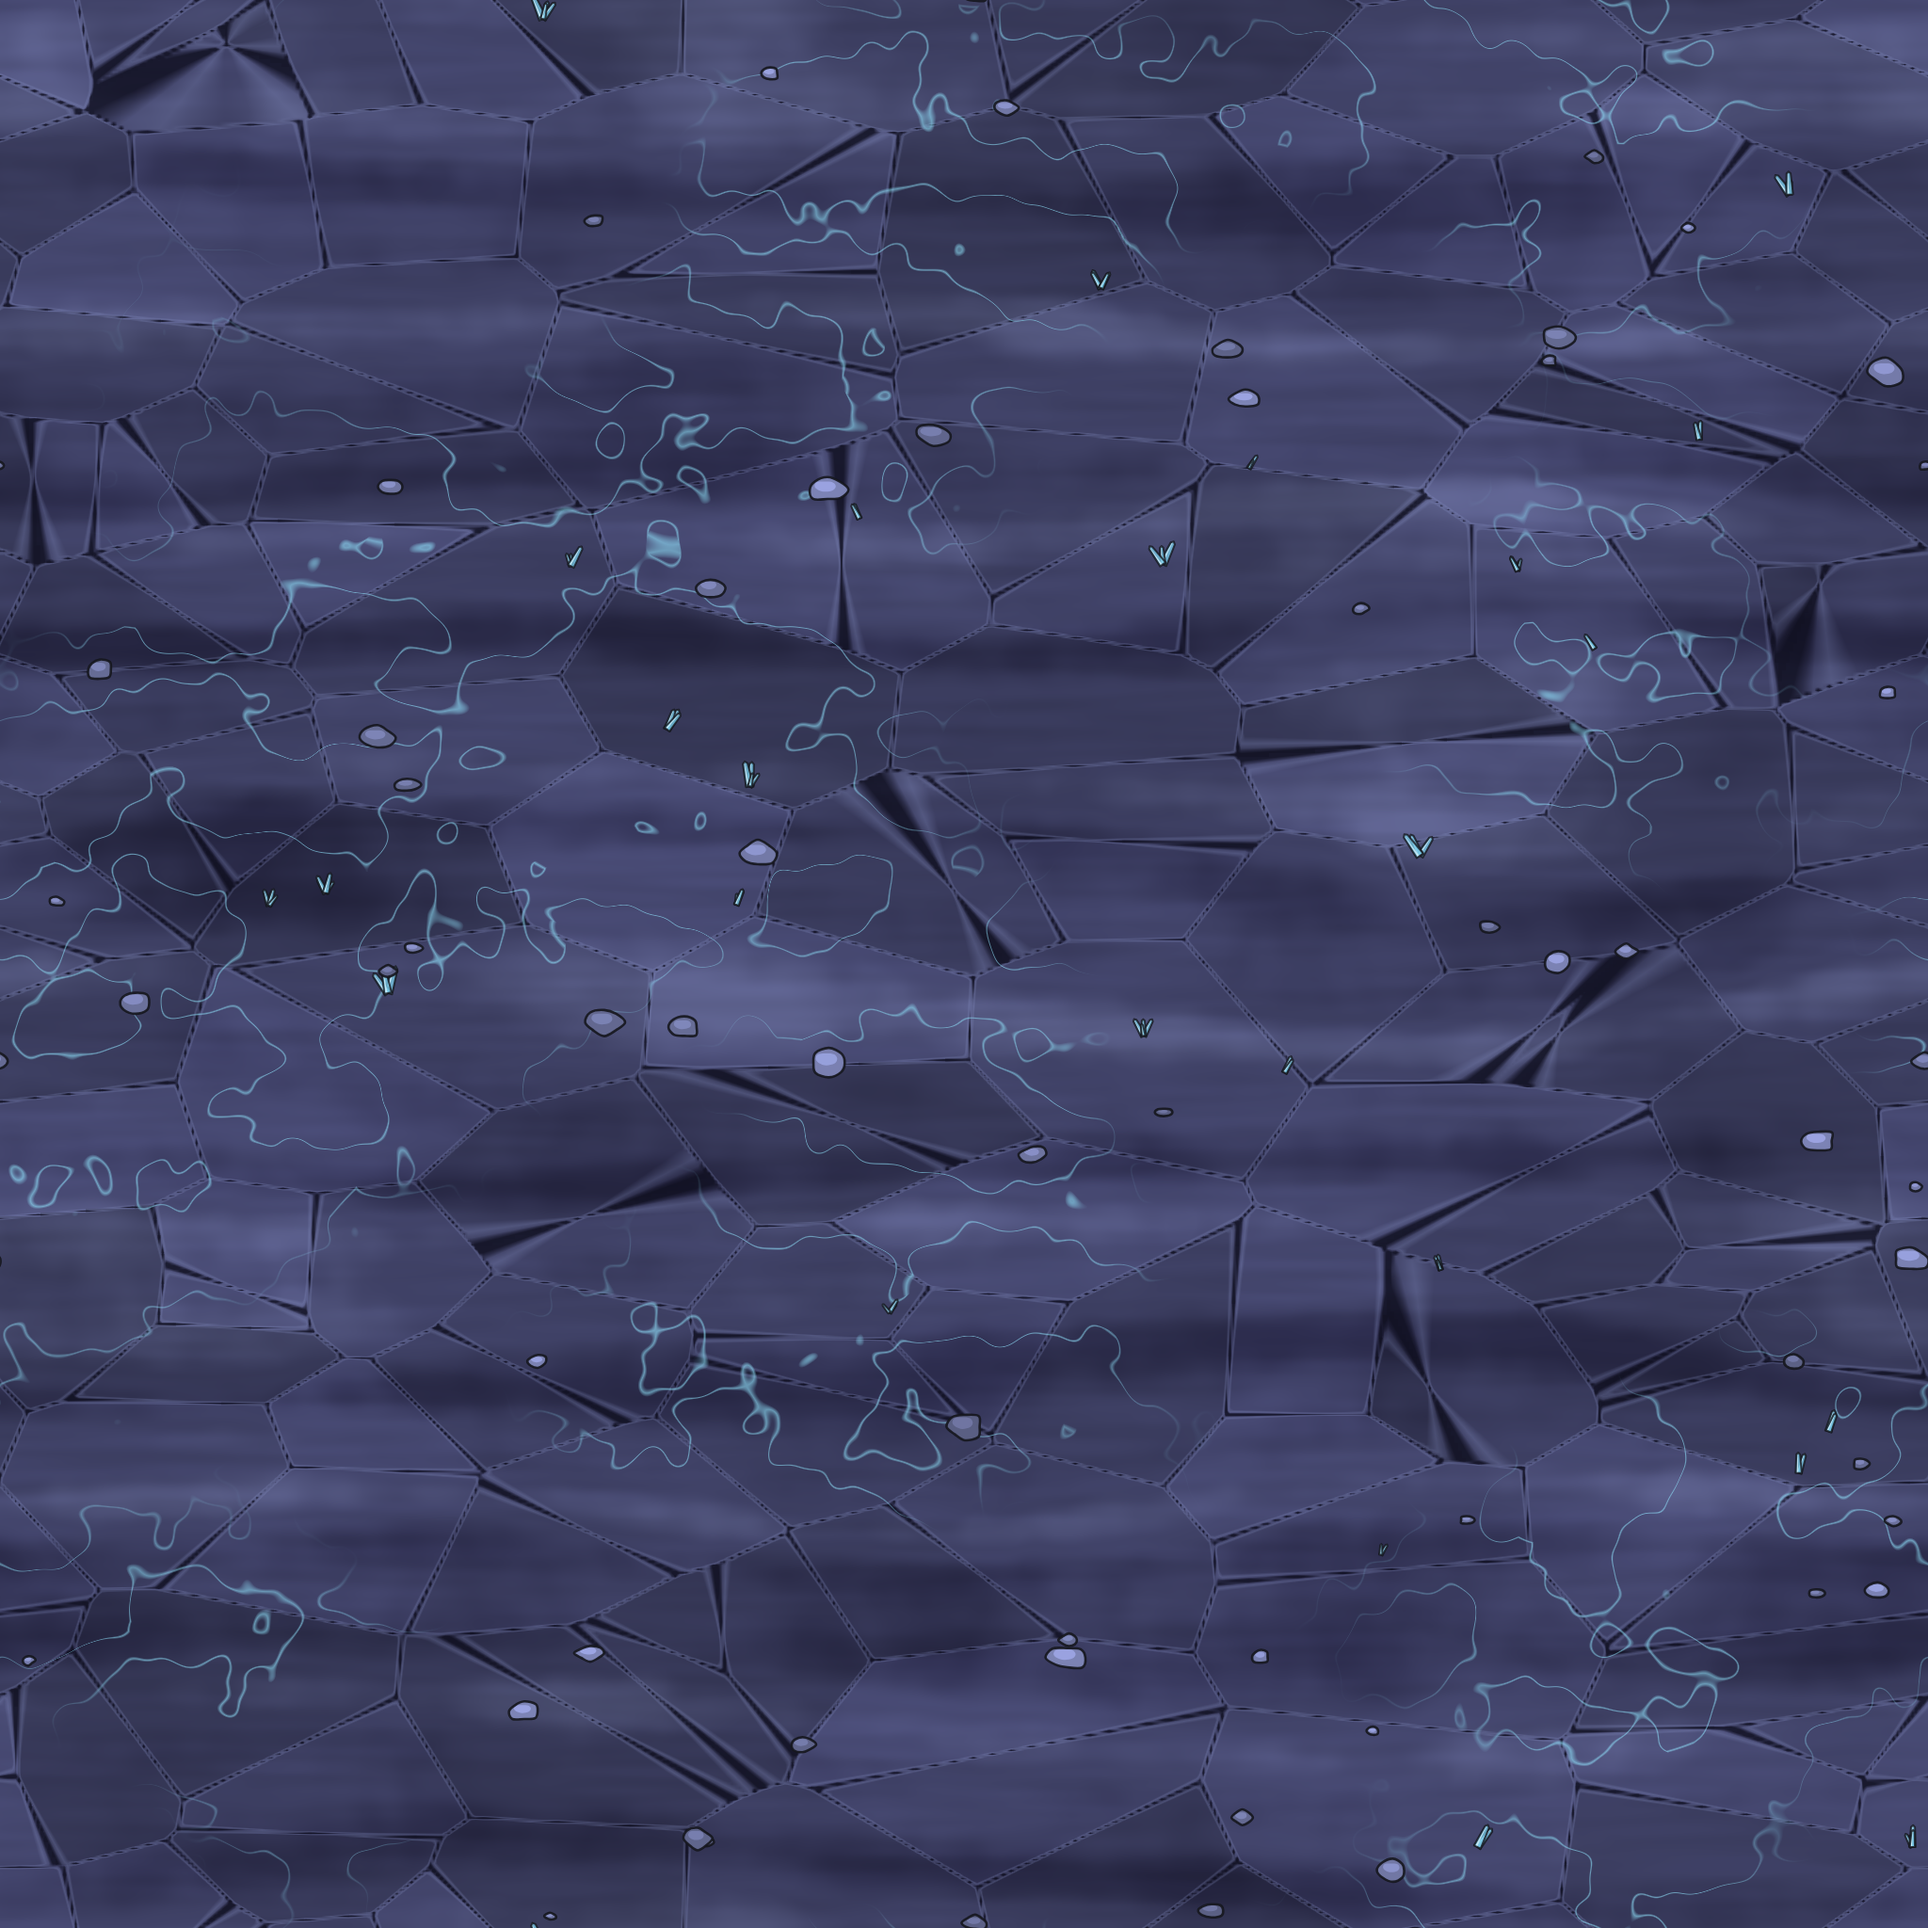
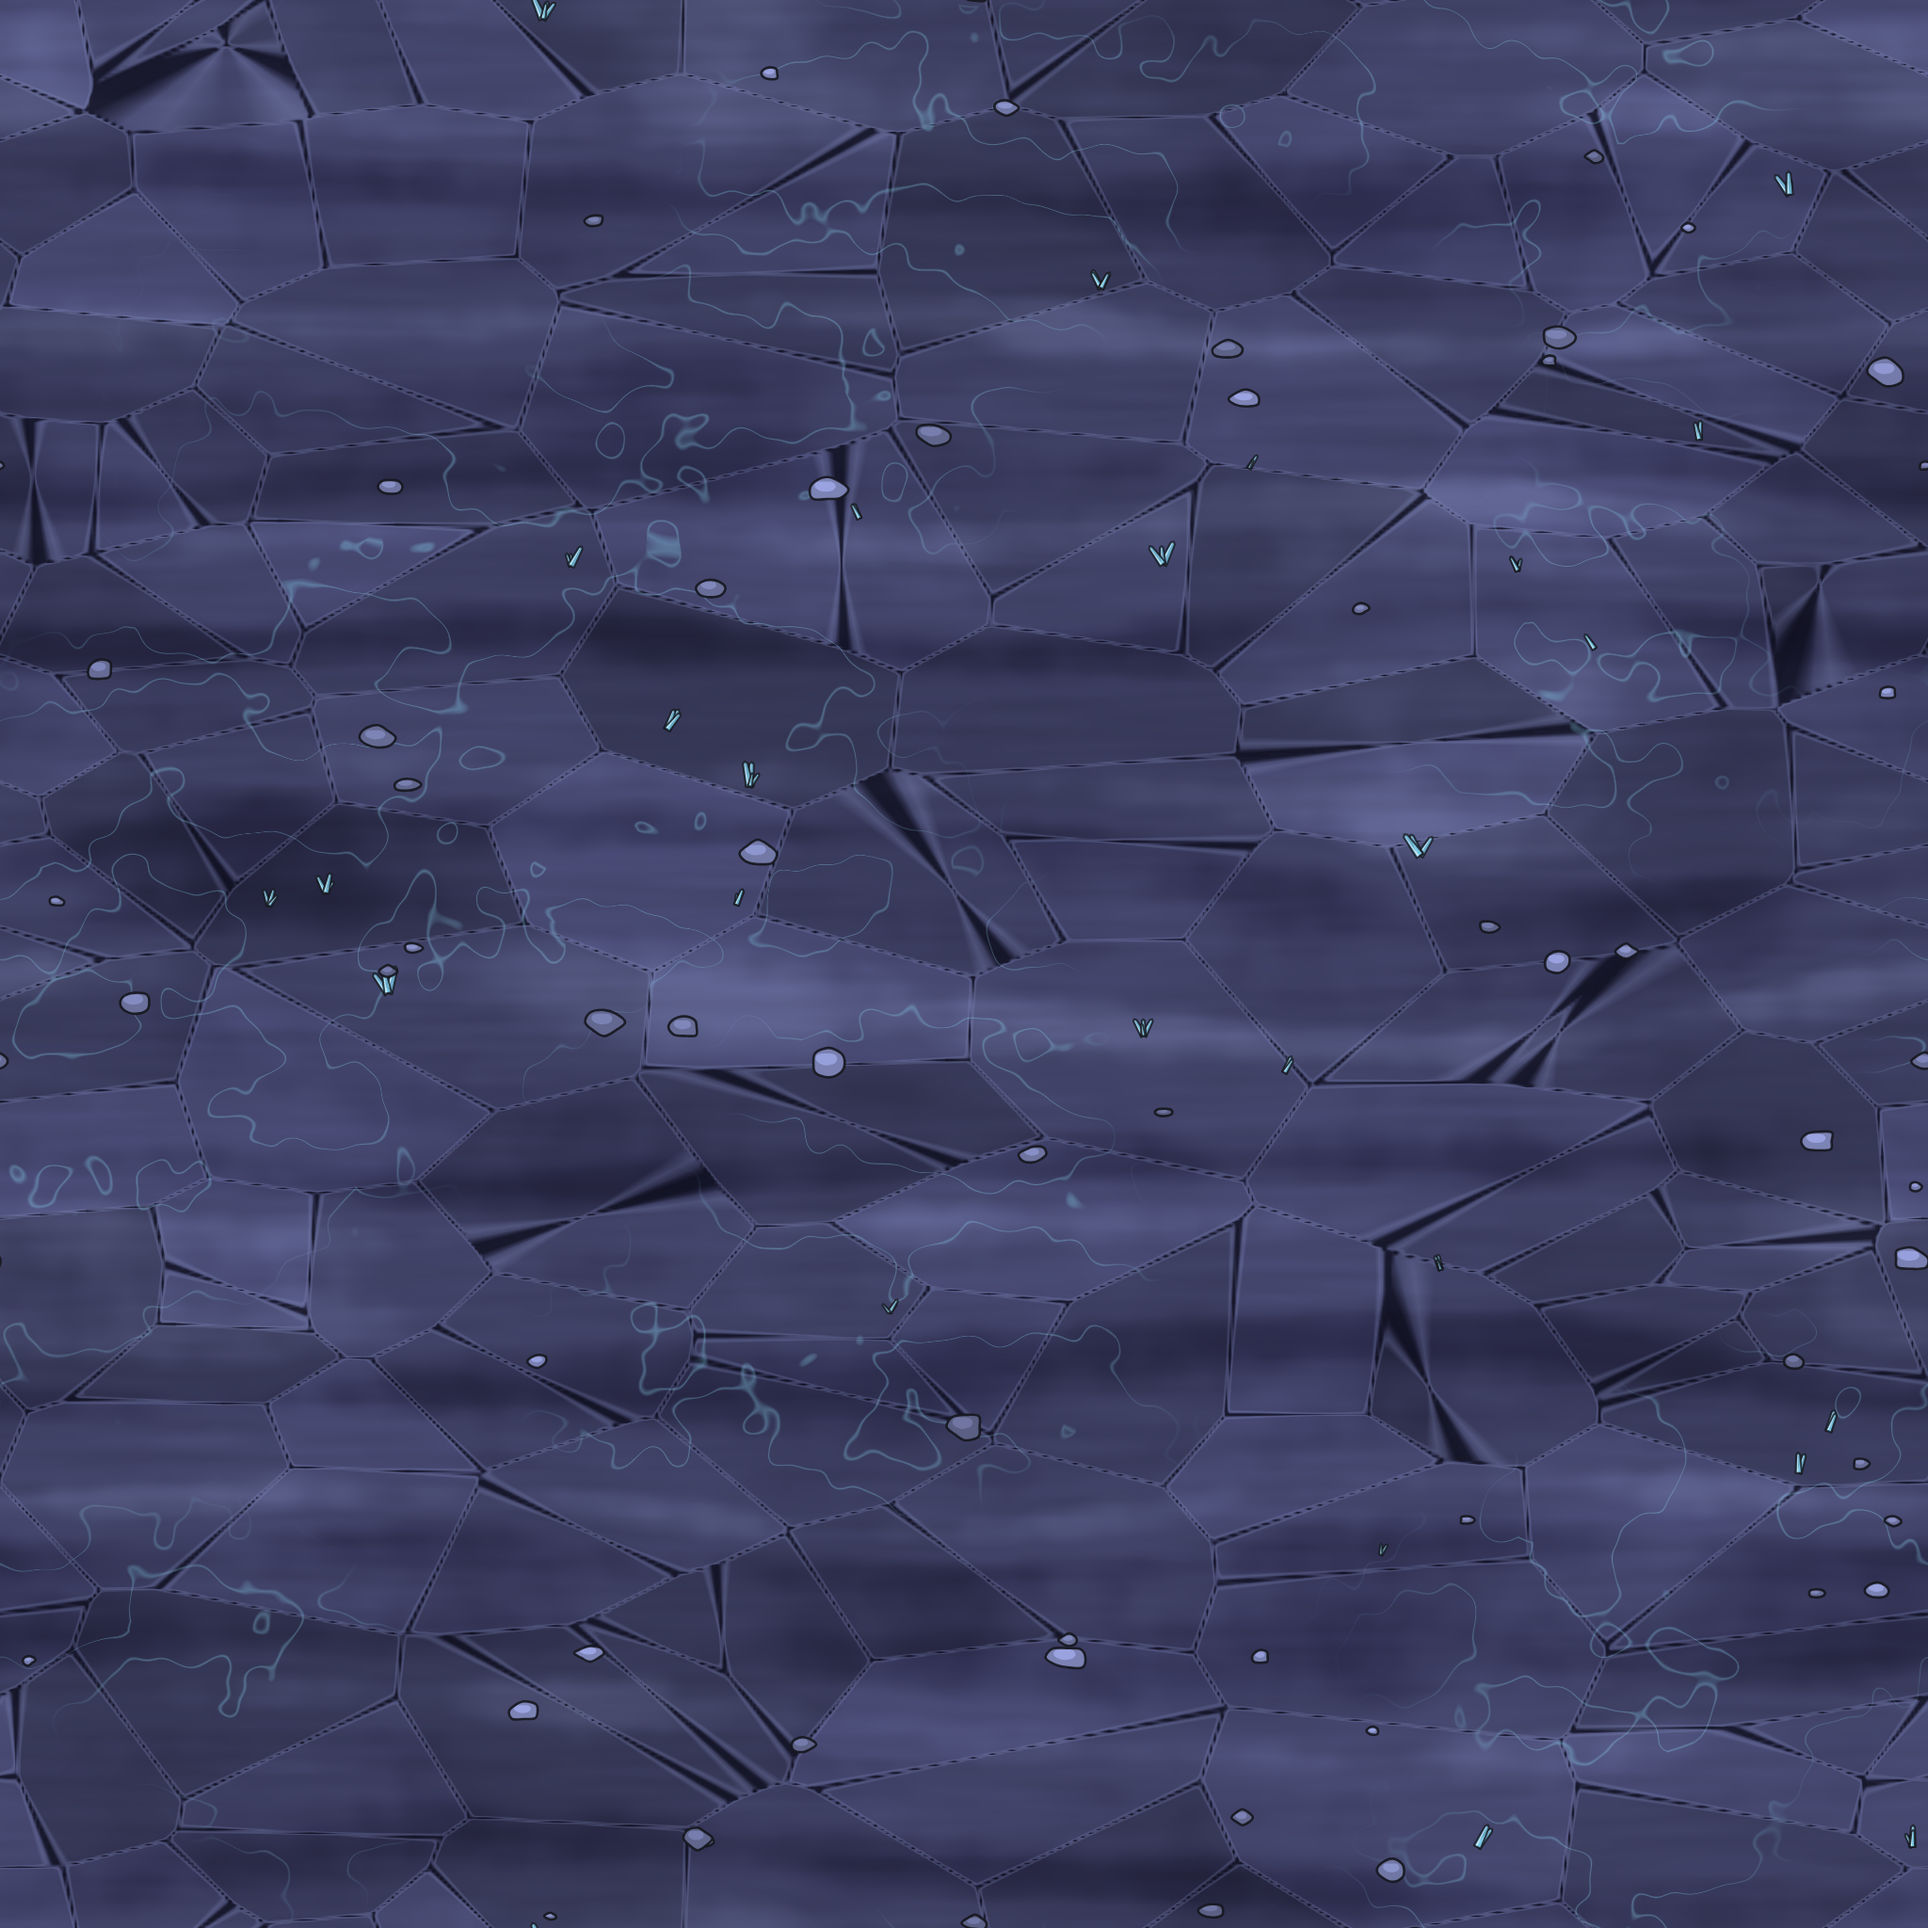
Kaf v2: buz damarları ve donmuş çağlayan kanalı yumuşatıldı

diff --git a/tools/artgen/kaf_ink.py b/tools/artgen/kaf_ink.py
@@ -256,9 +256,9 @@ def frozen_fall(L, x, top_y, base_y, w, seed, rock=ROCK, rock_d=ROCK_D, sky=None
     draw_cliff = cliff
     if not draw_cliff:
         # yalnızca kaya yüzündeki oyuk: buzun arkasında koyu kanal
-        ch = smooth_path([(ox - w * 0.6, oy + 6), (ox - w * 0.5, oy + hh * 0.5), (ox - w * 0.7, oy + hh + 6), (ox + w * 0.7, oy + hh + 6),
-                          (ox + w * 0.5, oy + hh * 0.5), (ox + w * 0.6, oy + 6), (ox, oy - 4)], True, 0.4)
-        sk.path(ch, rock_d, 0.9, 3)
+        ch = smooth_path([(ox - w * 0.48, oy + 8), (ox - w * 0.52, oy + hh * 0.5), (ox - w * 0.58, oy + hh + 4), (ox + w * 0.58, oy + hh + 4),
+                          (ox + w * 0.52, oy + hh * 0.5), (ox + w * 0.48, oy + 8), (ox, oy + 2)], True, 0.5)
+        sk.path(ch, rock_d, 0.6, 6)
     else:
         sk.path(cp, rock)
     # kaya yüzeyi: dikey kırık yüzler

diff --git a/tools/artgen/kaf_ink_ground.py b/tools/artgen/kaf_ink_ground.py
@@ -255,7 +255,7 @@ def soil_texture(seed=600, S=1024):
     # buz damarları: ince, dalgalı, parlak turkuaz
     vn = noise(S, S, 0, seed + 12, sx=26, sy=14) + 0.35 * noise(S, S, 0, seed + 14, sx=6, sy=6)
     vein = np.clip(1 - np.abs(vn) / 0.03, 0, 1) * smoothstep(0.15, 0.5, noise(S, S, 0, seed + 13, sx=90, sy=90))
-    rgb = mix(rgb, c01((140, 220, 245)), (vein * 0.6)[..., None])
+    rgb = mix(rgb, c01((140, 220, 245)), (vein * 0.32)[..., None])
     br = noise(S, S, 0, seed + 3, sx=24, sy=2.2)
     rgb *= (1 + 0.05 * br[..., None])
 
